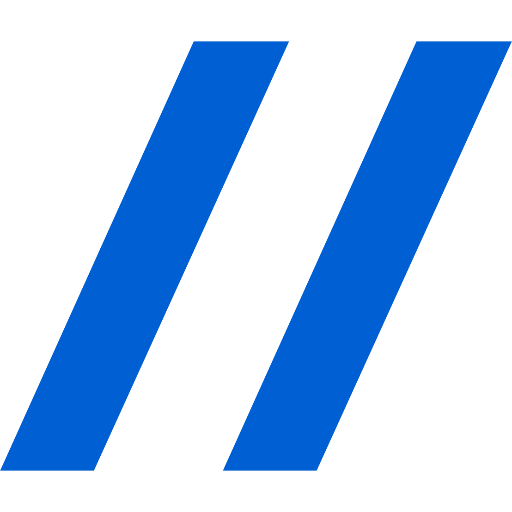
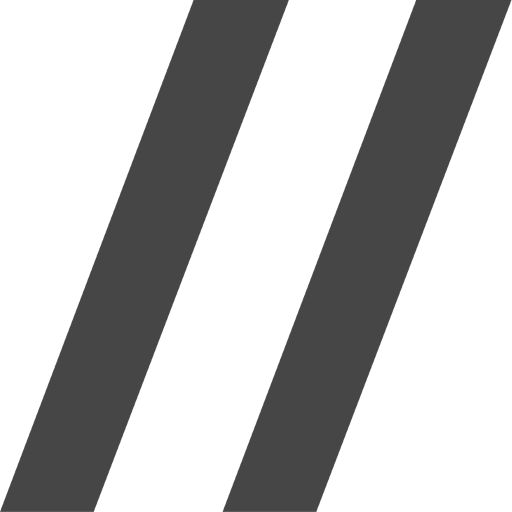
Update content and styles

diff --git a/index.html b/index.html
@@ -1,59 +1,153 @@
 <!doctype html>
-<html class="no-js" lang="">
+<html class="no-js" lang="en">
     <head>
-        <meta charset="utf-8">
-        <meta http-equiv="x-ua-compatible" content="ie=edge">
+        <meta charset="utf-8" />
         <title>Tobias Eichert</title>
-        <meta name="description" content="Software engineer at Spektrum der Wissenschaft, part of Springer Nature. Interested in philosophy, (pop) culture and the world around us.">
-        <meta property="og:type" content="website">
-        <meta property="og:title" content="Tobias Eichert">
-        <meta property="og:description" content="Software engineer at Spektrum der Wissenschaft, part of Springer Nature. Interested in philosophy, (pop) culture and the world around us.">
-        <meta property="og:url" content="https://tobiaseichert.de">
-        <meta property="og:locale" content="en_GB">
-        <link href="https://tobiaseichert.de/" rel="home">
-        <link href="https://tobiaseichert.de" rel="canonical">
+        <meta name="viewport" content="width=device-width, initial-scale=1" />
+        <meta
+            name="description"
+            content="AWS-certified software engineer at Spektrum der Wissenschaft (Springer Nature) with 20 years of professional experience."
+        />
 
-        <link rel="icon" href="favicon.ico" sizes="32x32">
-        <link rel="icon" href="favicon.svg" type="image/svg+xml">
-        <link rel="manifest" href="manifest">
-        <link rel="apple-touch-icon" sizes="180x180" href="icons/apple-touch-icon.png">
+        <!-- Theme Color matching Light & Dark Modes -->
+        <meta name="theme-color" content="#f4f1ea" />
 
-        <meta name="viewport" content="width=device-width, initial-scale=1">
-        <link href="css/main.css" rel="stylesheet">
+        <!-- Open Graph / Facebook -->
+        <meta property="og:type" content="website" />
+        <meta property="og:title" content="Tobias Eichert" />
+        <meta
+            property="og:description"
+            content="AWS-certified software engineer at Spektrum der Wissenschaft (Springer Nature) with 20 years of professional experience. Bridging full-stack feature delivery, platform architecture, GenAI, and developer enablement."
+        />
+        <meta property="og:url" content="https://tobiaseichert.de" />
+        <meta property="og:locale" content="en_GB" />
+        <meta
+            property="og:image"
+            content="https://tobiaseichert.de/icons/apple-touch-icon.png"
+        />
+
+        <!-- Twitter Card -->
+        <meta name="twitter:card" content="summary" />
+        <meta name="twitter:title" content="Tobias Eichert" />
+        <meta
+            name="twitter:description"
+            content="AWS-certified software engineer at Spektrum der Wissenschaft (Springer Nature) with 20 years of professional experience. Bridging full-stack feature delivery, platform architecture, GenAI, and developer enablement."
+        />
+        <meta
+            name="twitter:image"
+            content="https://tobiaseichert.de/icons/apple-touch-icon.png"
+        />
+
+        <!-- Canonical and Home links -->
+        <link href="https://tobiaseichert.de" rel="canonical" />
+        <link href="https://tobiaseichert.de" rel="home" />
+
+        <!-- Icons & Manifest -->
+        <link rel="icon" href="favicon.ico" sizes="any" />
+        <link rel="icon" href="favicon.svg" type="image/svg+xml" />
+        <link rel="manifest" href="manifest" />
+        <link
+            rel="apple-touch-icon"
+            sizes="180x180"
+            href="icons/apple-touch-icon.png"
+        />
+
+        <!-- Stylesheets -->
+        <link href="css/main.css" rel="stylesheet" />
     </head>
     <body>
         <div class="wrap">
             <div class="flex">
                 <div class="flex-inner">
                     <div class="logo">
-                        <svg width="100%" height="100%" viewBox="0 0 1108 929" version="1.1" xmlns="http://www.w3.org/2000/svg" xmlns:xlink="http://www.w3.org/1999/xlink" xml:space="preserve" xmlns:serif="http://www.serif.com/" style="fill-rule:evenodd;clip-rule:evenodd;stroke-linejoin:round;stroke-miterlimit:2;">
-                            <g transform="matrix(4.40843,0,0,4.40843,-2786.54,-4160.7)">
-                                <g transform="matrix(393.055,0,0,393.055,651.747,1152.91)">
-                                    <path d="M0.192,-0.532L0.311,-0.532L0.067,0.004L-0.05,0.004L0.192,-0.532Z" style="fill:rgb(0,95,211);fill-rule:nonzero;"/>
-                                </g>
-                                <g transform="matrix(393.055,0,0,393.055,761.016,1152.91)">
-                                    <path d="M0.192,-0.532L0.311,-0.532L0.067,0.004L-0.05,0.004L0.192,-0.532Z" style="fill:rgb(0,95,211);fill-rule:nonzero;"/>
-                                </g>
-                            </g>
-                        </svg>
+                        <img src="tte.webp" alt="Tobias Eichert" />
                     </div>
-                    <h1>Hi, Tobias here. ✌🏻</h1>
-                    <p>I'm an <a href="https://www.credly.com/badges/3184dc10-4768-40d7-aa5a-e6a72b30a636/public_url">AWS certified</a> software engineer at <a href="https://www.spektrum.de">Spektrum der Wissenschaft</a>, a scientific journalism publisher, which is part of <a href="https://www.springernature.com">Springer Nature</a>.</p>
-                    <p>I enjoy exploring books, philosophical topics, as well as films, games and artistic works with sometimes unconventional, but always compelling storytelling. I am also passionate about music, lifelong learning, and pursuing a simpler lifestyle.</p>
+                    <h1>Hi, I'm Tobias.</h1>
+                    <div class="ornament">✦</div>
+                    <p>
+                        With 20 years of professional experience, I currently
+                        work as an
+                        <a
+                            href="https://www.credly.com/badges/3184dc10-4768-40d7-aa5a-e6a72b30a636/public_url"
+                            target="_blank"
+                            rel="noopener noreferrer"
+                            >AWS-certified</a
+                        >
+                        software engineer at
+                        <a
+                            href="https://www.spektrum.de"
+                            target="_blank"
+                            rel="noopener noreferrer"
+                            >Spektrum der Wissenschaft</a
+                        >
+                        (Springer Nature). My work bridges full-stack feature
+                        delivery, platform architecture, GenAI, and developer
+                        enablement to shape the systems and workflows behind our
+                        publishing platforms.
+                    </p>
+                    <p>
+                        Outside of code, I value simplicity, lifelong learning,
+                        and storytelling. I enjoy books, games, music, and
+                        narrative-rich works. Always open to connecting with
+                        fellow engineers and curious minds.
+                    </p>
                     <ul class="contact">
                         <li>
-                            <a href="https://www.xing.com/profile/Tobias_Eichert" title="XING">
-                                <svg class="svg-inline--fa fa-xing" xmlns="http://www.w3.org/2000/svg" viewBox="0 0 384 512"><!--!Font Awesome Free 6.7.2 by @fontawesome - https://fontawesome.com License - https://fontawesome.com/license/free Copyright 2025 Fonticons, Inc.--><path d="M162.7 210c-1.8 3.3-25.2 44.4-70.1 123.5-4.9 8.3-10.8 12.5-17.7 12.5H9.8c-7.7 0-12.1-7.5-8.5-14.4l69-121.3c.2 0 .2-.1 0-.3l-43.9-75.6c-4.3-7.8 .3-14.1 8.5-14.1H100c7.3 0 13.3 4.1 18 12.2l44.7 77.5zM382.6 46.1l-144 253v.3L330.2 466c3.9 7.1 .2 14.1-8.5 14.1h-65.2c-7.6 0-13.6-4-18-12.2l-92.4-168.5c3.3-5.8 51.5-90.8 144.8-255.2 4.6-8.1 10.4-12.2 17.5-12.2h65.7c8 0 12.3 6.7 8.5 14.1z"/></svg>
+                            <a
+                                href="https://www.xing.com/profile/Tobias_Eichert"
+                                target="_blank"
+                                rel="noopener noreferrer"
+                                title="XING"
+                            >
+                                <svg
+                                    class="svg-inline--fa fa-xing"
+                                    xmlns="http://www.w3.org/2000/svg"
+                                    viewBox="0 0 384 512"
+                                >
+                                    <!--!Font Awesome Free 6.7.2 by @fontawesome - https://fontawesome.com License - https://fontawesome.com/license/free Copyright 2025 Fonticons, Inc.-->
+                                    <path
+                                        d="M162.7 210c-1.8 3.3-25.2 44.4-70.1 123.5-4.9 8.3-10.8 12.5-17.7 12.5H9.8c-7.7 0-12.1-7.5-8.5-14.4l69-121.3c.2 0 .2-.1 0-.3l-43.9-75.6c-4.3-7.8 .3-14.1 8.5-14.1H100c7.3 0 13.3 4.1 18 12.2l44.7 77.5zM382.6 46.1l-144 253v.3L330.2 466c3.9 7.1 .2 14.1-8.5 14.1h-65.2c-7.6 0-13.6-4-18-12.2l-92.4-168.5c3.3-5.8 51.5-90.8 144.8-255.2 4.6-8.1 10.4-12.2 17.5-12.2h65.7c8 0 12.3 6.7 8.5 14.1z"
+                                    />
+                                </svg>
                             </a>
                         </li>
                         <li>
-                            <a href="https://bsky.app/profile/tobiaseichert.bsky.social" title="Bluesky">
-                                <svg class="svg-inline--fa fa-bluesky" xmlns="http://www.w3.org/2000/svg" viewBox="0 0 512 512"><!--!Font Awesome Free 6.7.2 by @fontawesome - https://fontawesome.com License - https://fontawesome.com/license/free Copyright 2025 Fonticons, Inc.--><path d="M111.8 62.2C170.2 105.9 233 194.7 256 242.4c23-47.6 85.8-136.4 144.2-180.2c42.1-31.6 110.3-56 110.3 21.8c0 15.5-8.9 130.5-14.1 149.2C478.2 298 412 314.6 353.1 304.5c102.9 17.5 129.1 75.5 72.5 133.5c-107.4 110.2-154.3-27.6-166.3-62.9l0 0c-1.7-4.9-2.6-7.8-3.3-7.8s-1.6 3-3.3 7.8l0 0c-12 35.3-59 173.1-166.3 62.9c-56.5-58-30.4-116 72.5-133.5C100 314.6 33.8 298 15.7 233.1C10.4 214.4 1.5 99.4 1.5 83.9c0-77.8 68.2-53.4 110.3-21.8z"/></svg>
+                            <a
+                                href="https://bsky.app/profile/tobiaseichert.bsky.social"
+                                target="_blank"
+                                rel="noopener noreferrer"
+                                title="Bluesky"
+                            >
+                                <svg
+                                    class="svg-inline--fa fa-bluesky"
+                                    xmlns="http://www.w3.org/2000/svg"
+                                    viewBox="0 0 512 512"
+                                >
+                                    <!--!Font Awesome Free 6.7.2 by @fontawesome - https://fontawesome.com License - https://fontawesome.com/license/free Copyright 2025 Fonticons, Inc.-->
+                                    <path
+                                        d="M111.8 62.2C170.2 105.9 233 194.7 256 242.4c23-47.6 85.8-136.4 144.2-180.2c42.1-31.6 110.3-56 110.3 21.8c0 15.5-8.9 130.5-14.1 149.2C478.2 298 412 314.6 353.1 304.5c102.9 17.5 129.1 75.5 72.5 133.5c-107.4 110.2-154.3-27.6-166.3-62.9l0 0c-1.7-4.9-2.6-7.8-3.3-7.8s-1.6 3-3.3 7.8l0 0c-12 35.3-59 173.1-166.3 62.9c-56.5-58-30.4-116 72.5-133.5C100 314.6 33.8 298 15.7 233.1C10.4 214.4 1.5 99.4 1.5 83.9c0-77.8 68.2-53.4 110.3-21.8z"
+                                    />
+                                </svg>
                             </a>
                         </li>
                         <li>
-                            <a href="mailto:[email redacted]" onmouseover="this.href=this.href.replace(/x/g,'');" title="Email">
-                                <svg class="svg-inline--fa fa-envelope" xmlns="http://www.w3.org/2000/svg" viewBox="0 0 512 512"><!--!Font Awesome Free 6.7.2 by @fontawesome - https://fontawesome.com License - https://fontawesome.com/license/free Copyright 2025 Fonticons, Inc.--><path d="M48 64C21.5 64 0 85.5 0 112c0 15.1 7.1 29.3 19.2 38.4L236.8 313.6c11.4 8.5 27 8.5 38.4 0L492.8 150.4c12.1-9.1 19.2-23.3 19.2-38.4c0-26.5-21.5-48-48-48L48 64zM0 176L0 384c0 35.3 28.7 64 64 64l384 0c35.3 0 64-28.7 64-64l0-208L294.4 339.2c-22.8 17.1-54 17.1-76.8 0L0 176z"/></svg>
+                            <a
+                                href="mailto:[email redacted]"
+                                onmouseover="
+                                    this.href = this.href.replace(/x/g, '')
+                                "
+                                title="Email"
+                            >
+                                <svg
+                                    class="svg-inline--fa fa-envelope"
+                                    xmlns="http://www.w3.org/2000/svg"
+                                    viewBox="0 0 512 512"
+                                >
+                                    <!--!Font Awesome Free 6.7.2 by @fontawesome - https://fontawesome.com License - https://fontawesome.com/license/free Copyright 2025 Fonticons, Inc.-->
+                                    <path
+                                        d="M48 64C21.5 64 0 85.5 0 112c0 15.1 7.1 29.3 19.2 38.4L236.8 313.6c11.4 8.5 27 8.5 38.4 0L492.8 150.4c12.1-9.1 19.2-23.3 19.2-38.4c0-26.5-21.5-48-48-48L48 64zM0 176L0 384c0 35.3 28.7 64 64 64l384 0c35.3 0 64-28.7 64-64l0-208L294.4 339.2c-22.8 17.1-54 17.1-76.8 0L0 176z"
+                                    />
+                                </svg>
                             </a>
                         </li>
                     </ul>

diff --git a/css/main.css b/css/main.css
@@ -32,6 +32,8 @@ html {
     color: rgb(34, 34, 34);
     font-size: 1rem;
     line-height: 1.4;
+    background: linear-gradient(180deg, #f4f1ea 60%, #dcd5cc 100%);
+    background-attachment: fixed;
 }
 
 body {
@@ -67,8 +69,14 @@ a:hover {
 }
 
 .logo {
-    width: 4rem;
+    width: 10rem;
     margin: 0 auto;
+}
+
+.logo img {
+    width: 100%;
+    height: auto;
+    display: block;
 }
 
 h1 {
@@ -101,18 +109,6 @@ li a {
     padding: 0;
 }
 
-li a .fa-xing:hover {
-    fill: rgb(0, 90, 92);
-}
-
-li a .fa-bluesky:hover {
-    fill: rgb(3, 133, 255);
-}
-
-li a .fa-envelope:hover {
-    fill: rgb(211, 31, 31);
-}
-
 svg:not(:host).svg-inline--fa,
 svg:not(:root).svg-inline--fa {
     overflow: visible;
@@ -124,6 +120,7 @@ svg:not(:root).svg-inline--fa {
     height: 1.5rem;
     overflow: visible;
     vertical-align: -0.125em;
+    fill: rgb(70, 70, 70);
 }
 
 @media screen and (min-width: 1000px) {
@@ -138,15 +135,31 @@ svg:not(:root).svg-inline--fa {
     }
 }
 
-@media (prefers-color-scheme: dark) {
-    html {
-        background-color: rgb(33, 33, 33);
-        color: rgb(223, 223, 223);
-    }
-    a {
-        color: rgb(223, 223, 223);
-    }
-    a svg {
-        fill: rgb(223, 223, 223);
-    }
+.ornament {
+    font-size: 1rem;
+    color: rgba(
+        70,
+        70,
+        70,
+        0.75
+    ); /* Aligned with your icons' slate-ink gray base */
+    margin: 1.5rem 0;
+    user-select: none;
+    display: flex;
+    justify-content: center;
+    align-items: center;
+    gap: 0.75rem;
+}
+
+.ornament::before,
+.ornament::after {
+    content: "";
+    width: 2rem;
+    height: 1px;
+    background-color: rgba(
+        70,
+        70,
+        70,
+        0.5
+    ); /* Delicate horizontal lines framing the star */
 }